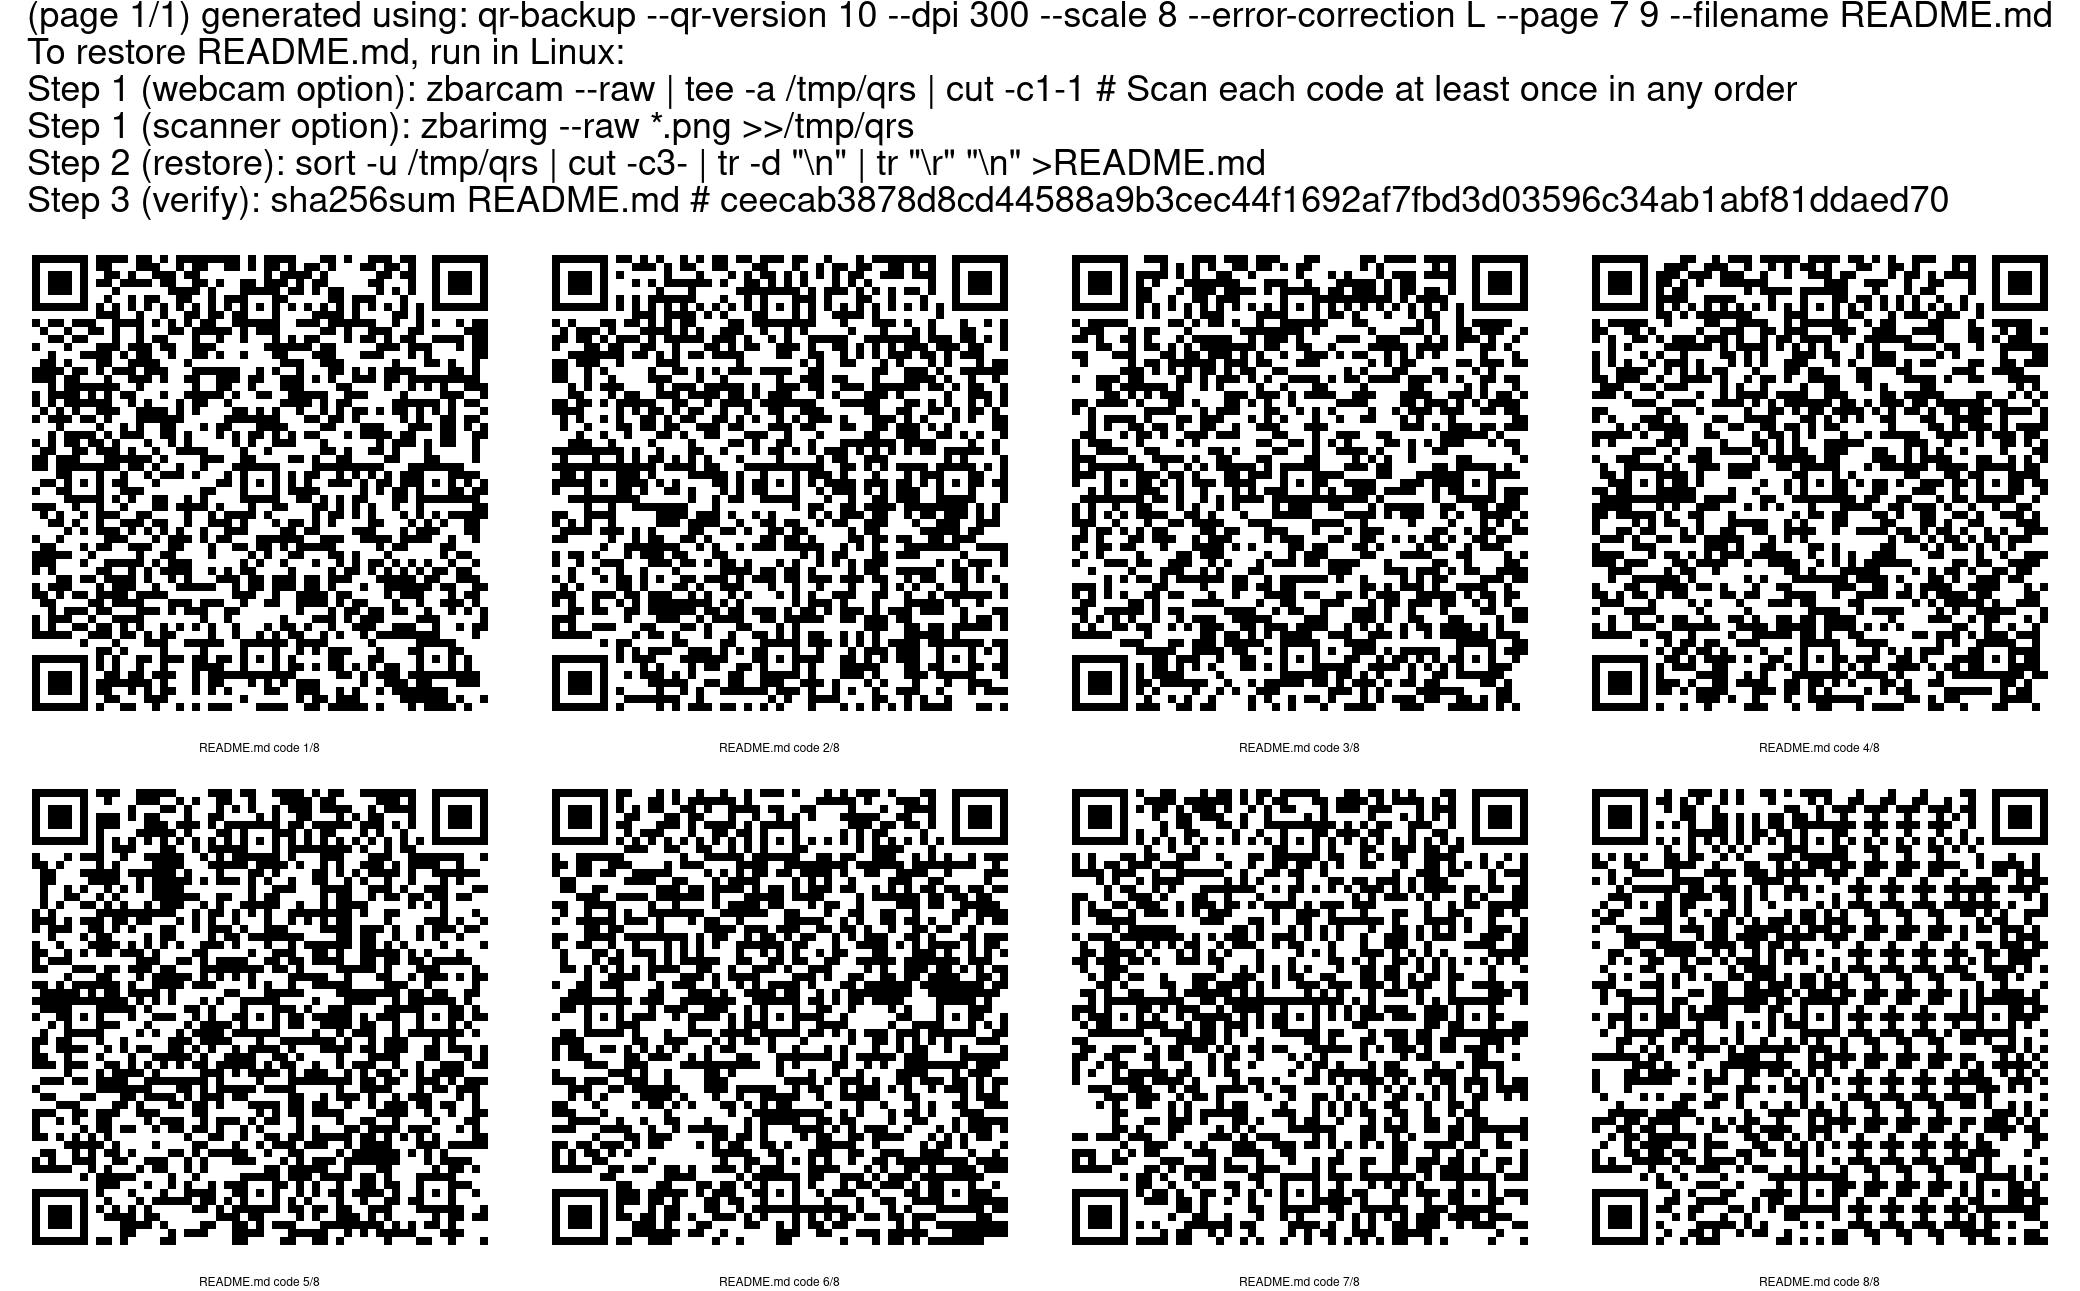
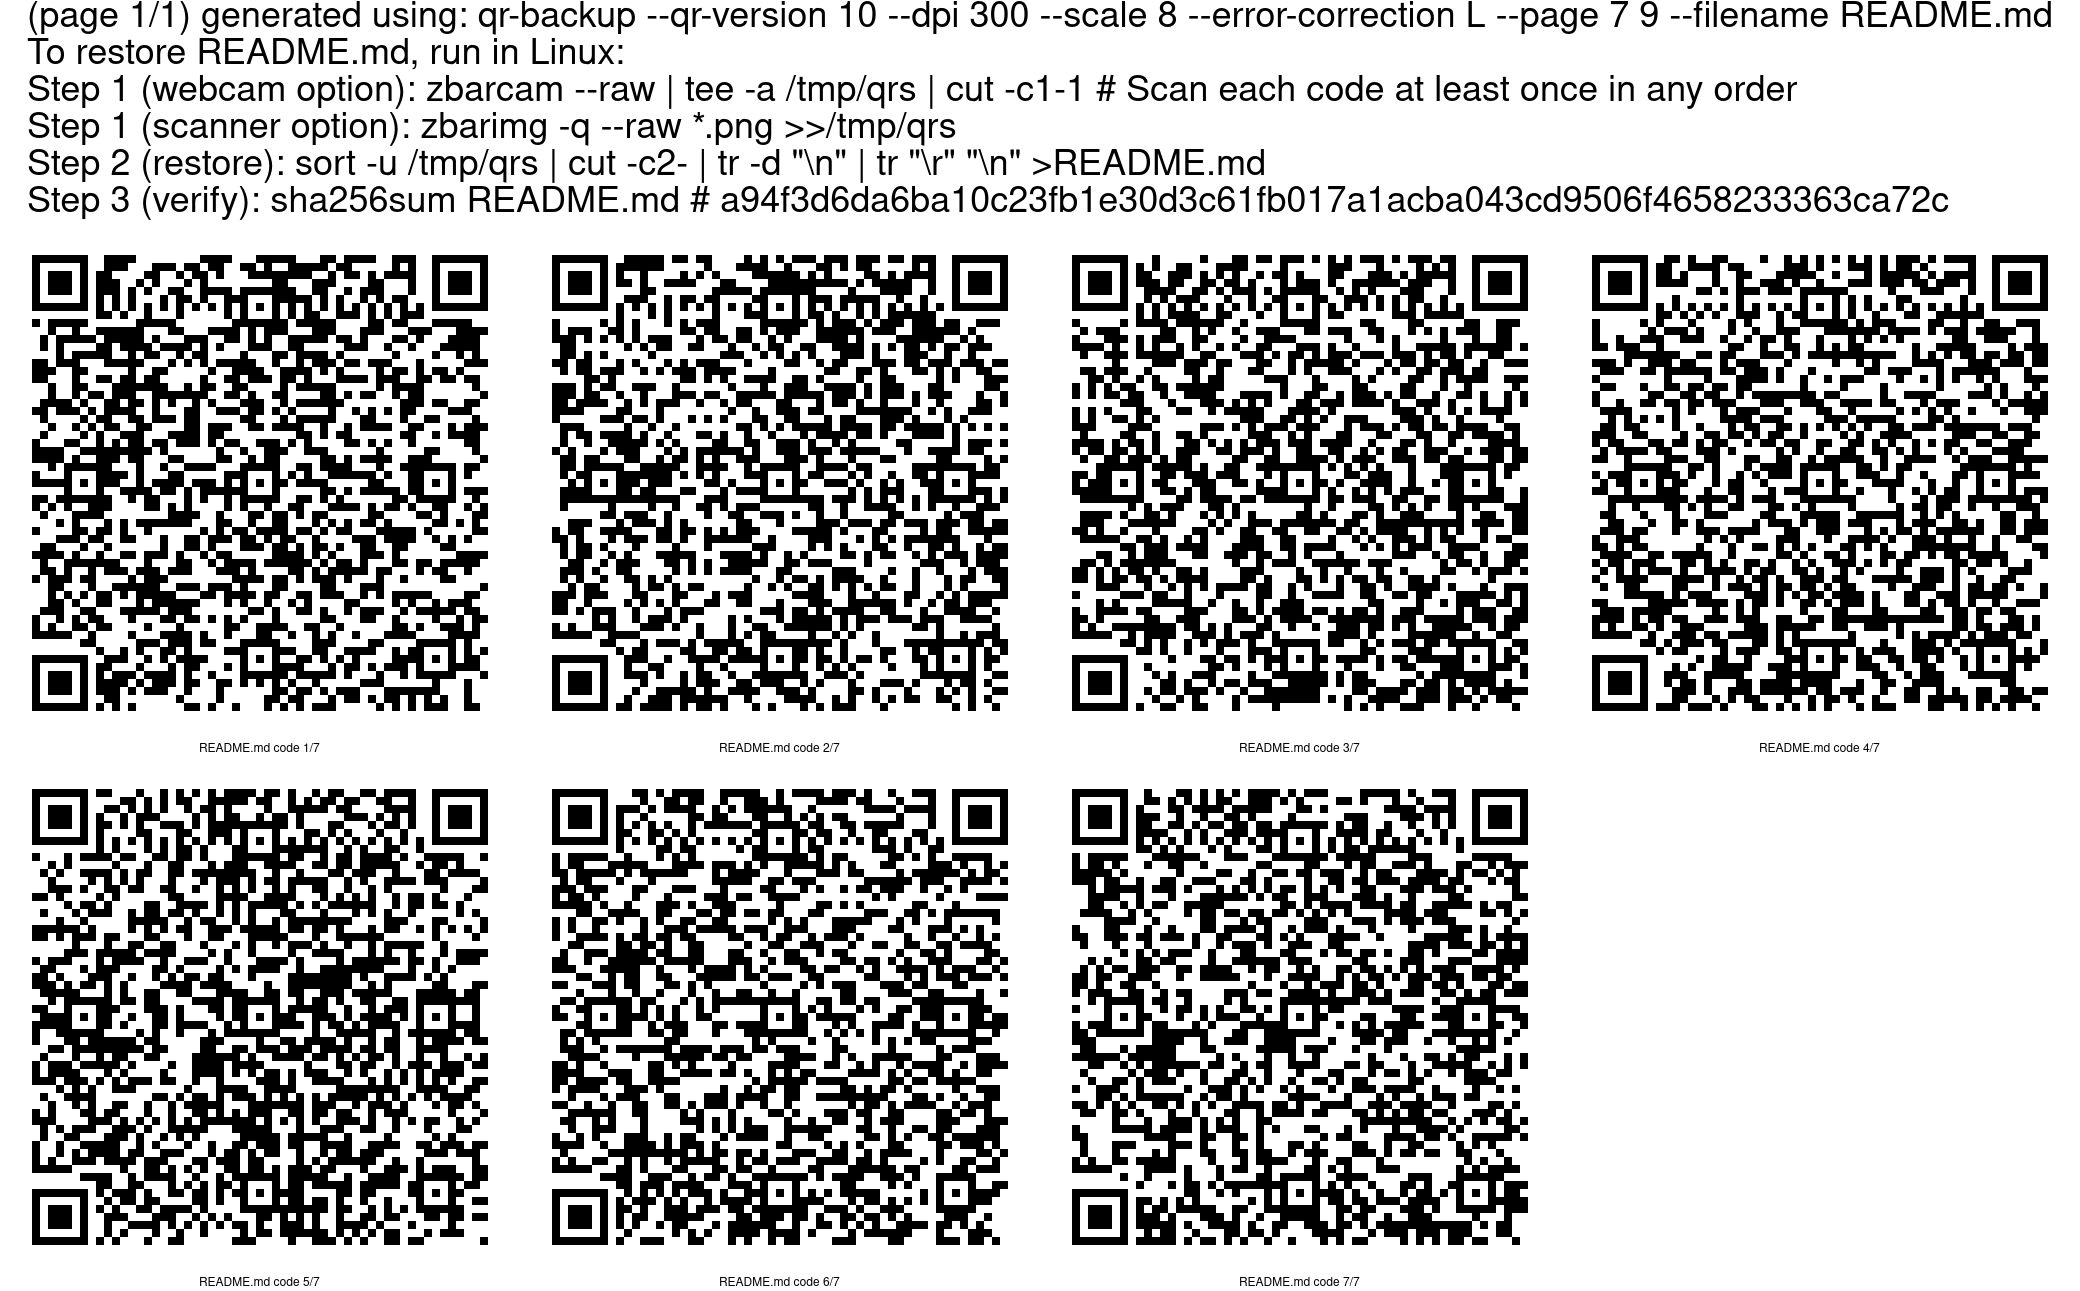
base64 encoding

Changed region(s): [[0.0, 0.093, 1.0, 0.5577], [0.0, 0.5887, 1.0, 0.9915], [0.8438, 0.9915, 0.9062, 1.0]]

diff --git a/README.md b/README.md
@@ -31,4 +31,3 @@ To restore from a paper backup:
 1. Generate a .pdf or .ps file. Currently I generate one .png per page.
 2. Properly figure out the maximum printable area
 3. Maximize the density a bit more. Properly account for text padding in labels.
-4. Allow arbitrary binary data by escaping "\r"
